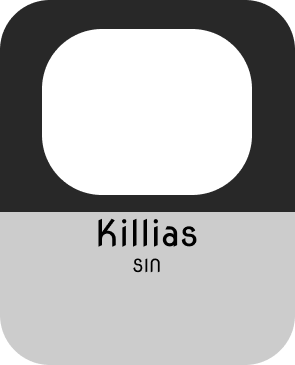
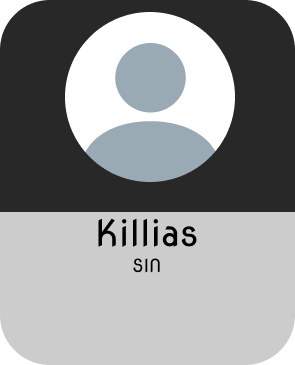
Update : 2 issues fixed
1.1 - New design to import
2.2 - Profile case for each employee

Changed region(s): [[0.122, 0.0301, 0.8542, 0.5425]]

diff --git a/index.html b/index.html
@@ -59,7 +59,13 @@
         <h1 class="section-head">Team</h1>
         <h2 class="paragraph-head">Voici l'équipe nova.</h2>
 
+        <img src="./CSS/IMG/robin.png" class="case-team">
         <img src="./CSS/IMG/killias.png" class="case-team">
+        <img src="./CSS/IMG/lauryne.png" class="case-team">
+        <img src="./CSS/IMG/ugo.png" class="case-team">
+        <img src="./CSS/IMG/antonin.png" class="case-team">
+        <img src="./CSS/IMG/yunus.png" class="case-team">
+        <img src="./CSS/IMG/timothé.png" class="case-team">
 
     </section>
     
